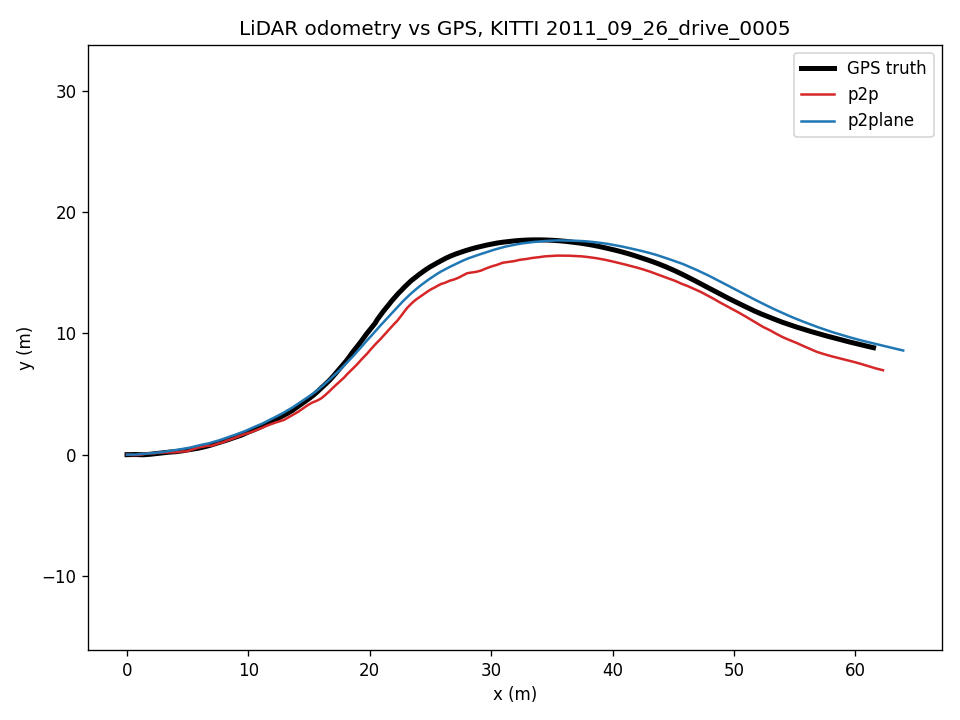
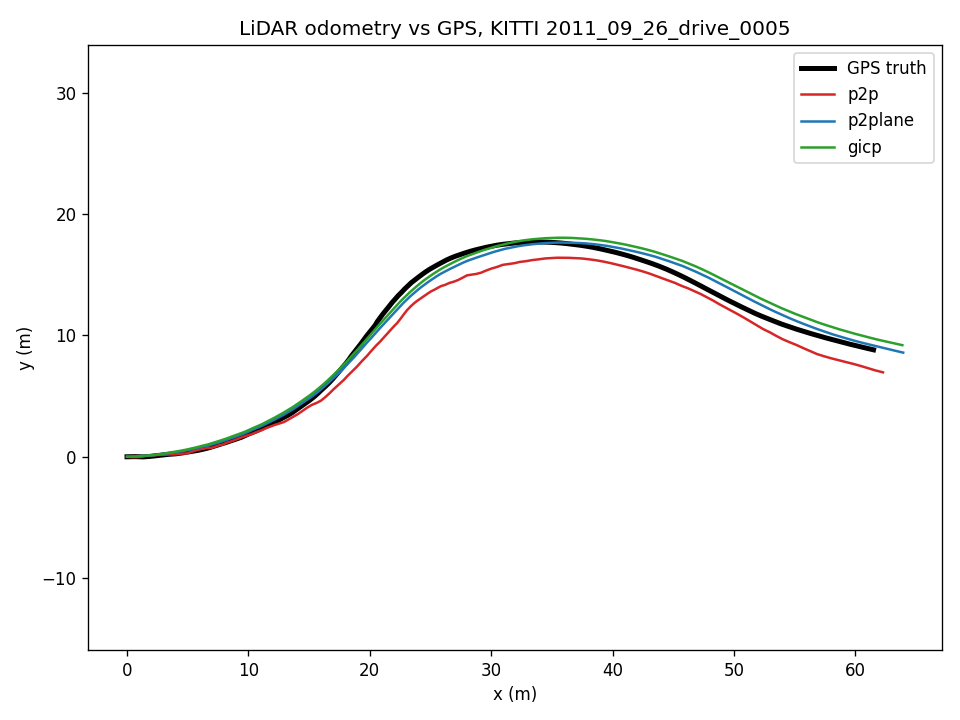
Add GICP and 3-way odometry comparison

diff --git a/scripts/run_odometry.py b/scripts/run_odometry.py
@@ -7,11 +7,13 @@ import matplotlib.pyplot as plt
 sys.path.insert(0, os.path.dirname(os.path.dirname(os.path.abspath(__file__))))
 from lidar.io_kitti import list_scans, load_scan, load_velo_poses
 from lidar.preprocess import voxel_downsample, estimate_normals
-from lidar.icp import icp_point_to_point, icp_point_to_plane
+from lidar.icp import icp_point_to_point, icp_point_to_plane, icp_gicp
 
 DRIVE = 'data/2011_09_26/2011_09_26_drive_0005_sync'
 CALIB = 'data/2011_09_26'
 VOXEL = 0.5
+METHODS = ['p2p', 'p2plane', 'gicp']
+COLORS = {'p2p': 'tab:red', 'p2plane': 'tab:blue', 'gicp': 'tab:green'}
 
 
 def save_kitti(path, poses):
@@ -23,27 +25,28 @@ def save_kitti(path, poses):
 
 def run(method):
     scans = list_scans(DRIVE)
-    poses = [np.eye(4)]          # start at the origin
-    T_rel = np.eye(4)            # first guess: no motion
+    poses = [np.eye(4)]
+    T_rel = np.eye(4)
     iters_total = 0
     t0 = time.time()
 
     prev = voxel_downsample(load_scan(scans[0])[:, :3], VOXEL)
     for i in range(1, len(scans)):
         cur = voxel_downsample(load_scan(scans[i])[:, :3], VOXEL)
-        # last step's motion is the starting guess (constant velocity)
         if method == 'p2p':
             T_rel, it, _ = icp_point_to_point(cur, prev, T_init=T_rel)
-        else:
+        elif method == 'p2plane':
             T_rel, it, _ = icp_point_to_plane(cur, prev, estimate_normals(prev), T_init=T_rel)
-        poses.append(poses[-1] @ T_rel)    # chain the new step onto the path
-        iters_total += it
-        prev = cur                          # current scan is the target next time
+        else:
+            T_rel, it, _ = icp_gicp(cur, prev, T_init=T_rel)
+        poses.append(poses[-1] @ T_rel)
+        iters_total += it or 0
+        prev = cur
 
     sec = time.time() - t0
     n = len(scans) - 1
-    print(f'{method}: {len(scans)} scans in {sec:.1f} s '
-          f'({1000 * sec / n:.0f} ms per scan, avg {iters_total / n:.1f} iters)')
+    it_txt = f'avg {iters_total / n:.1f} iters' if iters_total else 'iters n/a'
+    print(f'{method}: {len(scans)} scans in {sec:.1f} s ({1000 * sec / n:.0f} ms per scan, {it_txt})')
     return poses
 
 
@@ -51,24 +54,22 @@ gt = load_velo_poses(DRIVE, CALIB)
 save_kitti('results/gt.txt', gt)
 
 results = {}
-for m in ['p2p', 'p2plane']:
+for m in METHODS:
     results[m] = run(m)
     save_kitti(f'results/{m}.txt', results[m])
 
-# drift = how far the last pose is from the gps last pose, as % of distance driven
 dist = sum(np.linalg.norm(gt[i + 1][:3, 3] - gt[i][:3, 3]) for i in range(len(gt) - 1))
 print(f'\ndrive length: {dist:.1f} m')
 for m, poses in results.items():
     e = np.linalg.norm(poses[-1][:3, 3] - gt[-1][:3, 3])
     print(f'{m}: final position error {e:.2f} m ({100 * e / dist:.2f}% of distance)')
 
-# top-down plot of all three paths
 plt.figure(figsize=(8, 6))
 g = np.array([T[:3, 3] for T in gt])
 plt.plot(g[:, 0], g[:, 1], 'k-', lw=3, label='GPS truth')
-for m, c in [('p2p', 'tab:red'), ('p2plane', 'tab:blue')]:
+for m in METHODS:
     p = np.array([T[:3, 3] for T in results[m]])
-    plt.plot(p[:, 0], p[:, 1], color=c, lw=1.5, label=m)
+    plt.plot(p[:, 0], p[:, 1], color=COLORS[m], lw=1.5, label=m)
 plt.axis('equal')
 plt.xlabel('x (m)')
 plt.ylabel('y (m)')

diff --git a/scripts/icp_two_scans.py b/scripts/icp_two_scans.py
@@ -7,12 +7,12 @@ sys.path.insert(0, os.path.dirname(os.path.dirname(os.path.abspath(__file__))))
 from common.transforms import inv_T, rot_to_euler
 from lidar.io_kitti import list_scans, load_scan, load_velo_poses
 from lidar.preprocess import voxel_downsample, estimate_normals
-from lidar.icp import icp_point_to_point, icp_point_to_plane
+from lidar.icp import icp_point_to_point, icp_point_to_plane, icp_gicp
 
 DRIVE = 'data/2011_09_26/2011_09_26_drive_0005_sync'
 CALIB = 'data/2011_09_26'
 
-i = int(sys.argv[1]) if len(sys.argv) > 1 else 0   # compare scan i and i+1
+i = int(sys.argv[1]) if len(sys.argv) > 1 else 0
 scans = list_scans(DRIVE)
 tgt = voxel_downsample(load_scan(scans[i])[:, :3], 0.5)
 src = voxel_downsample(load_scan(scans[i + 1])[:, :3], 0.5)
@@ -24,11 +24,13 @@ yaw_true = np.degrees(rot_to_euler(T_true[:3, :3])[2])
 print(f'scans {i} -> {i + 1}, true motion {T_true[:3, 3].round(3)} m, yaw {yaw_true:.3f} deg\n')
 
 for name, fn, args in [('point-to-point', icp_point_to_point, (src, tgt)),
-                       ('point-to-plane', icp_point_to_plane, (src, tgt, normals))]:
+                       ('point-to-plane', icp_point_to_plane, (src, tgt, normals)),
+                       ('gicp          ', icp_gicp, (src, tgt))]:
     t0 = time.time()
     T, iters, err = fn(*args)
     ms = (time.time() - t0) * 1000
     terr = 100 * np.linalg.norm(T[:3, 3] - T_true[:3, 3])
     yaw = np.degrees(rot_to_euler(T[:3, :3])[2])
-    print(f'{name}: {ms:.0f} ms, {iters} iters, motion {T[:3, 3].round(3)}, '
+    it_txt = f'{iters} iters' if iters is not None else 'n/a iters'
+    print(f'{name}: {ms:.0f} ms, {it_txt}, motion {T[:3, 3].round(3)}, '
           f'error {terr:.1f} cm, yaw {yaw:.3f} deg')

diff --git a/lidar/icp.py b/lidar/icp.py
@@ -73,3 +73,22 @@ def icp_point_to_plane(src, tgt, tgt_normals, T_init=None, max_iter=50, max_dist
         if abs(x).max() < tol:
             break
     return T, it + 1, d[keep].mean()
+
+
+import open3d as o3d
+
+
+def icp_gicp(src, tgt, T_init=None, max_dist=1.0, max_iter=50):
+    # generalized icp from open3d. it builds a covariance "pancake" for every point in both clouds
+    s = o3d.geometry.PointCloud()
+    s.points = o3d.utility.Vector3dVector(src)
+    t = o3d.geometry.PointCloud()
+    t.points = o3d.utility.Vector3dVector(tgt)
+    T0 = np.eye(4) if T_init is None else T_init
+    reg = o3d.pipelines.registration
+    res = reg.registration_generalized_icp(
+        s, t, max_dist, T0,
+        reg.TransformationEstimationForGeneralizedICP(),
+        reg.ICPConvergenceCriteria(max_iteration=max_iter))
+    # open3d doesn't report the iteration count, so return None for it
+    return res.transformation.copy(), None, res.inlier_rmse
